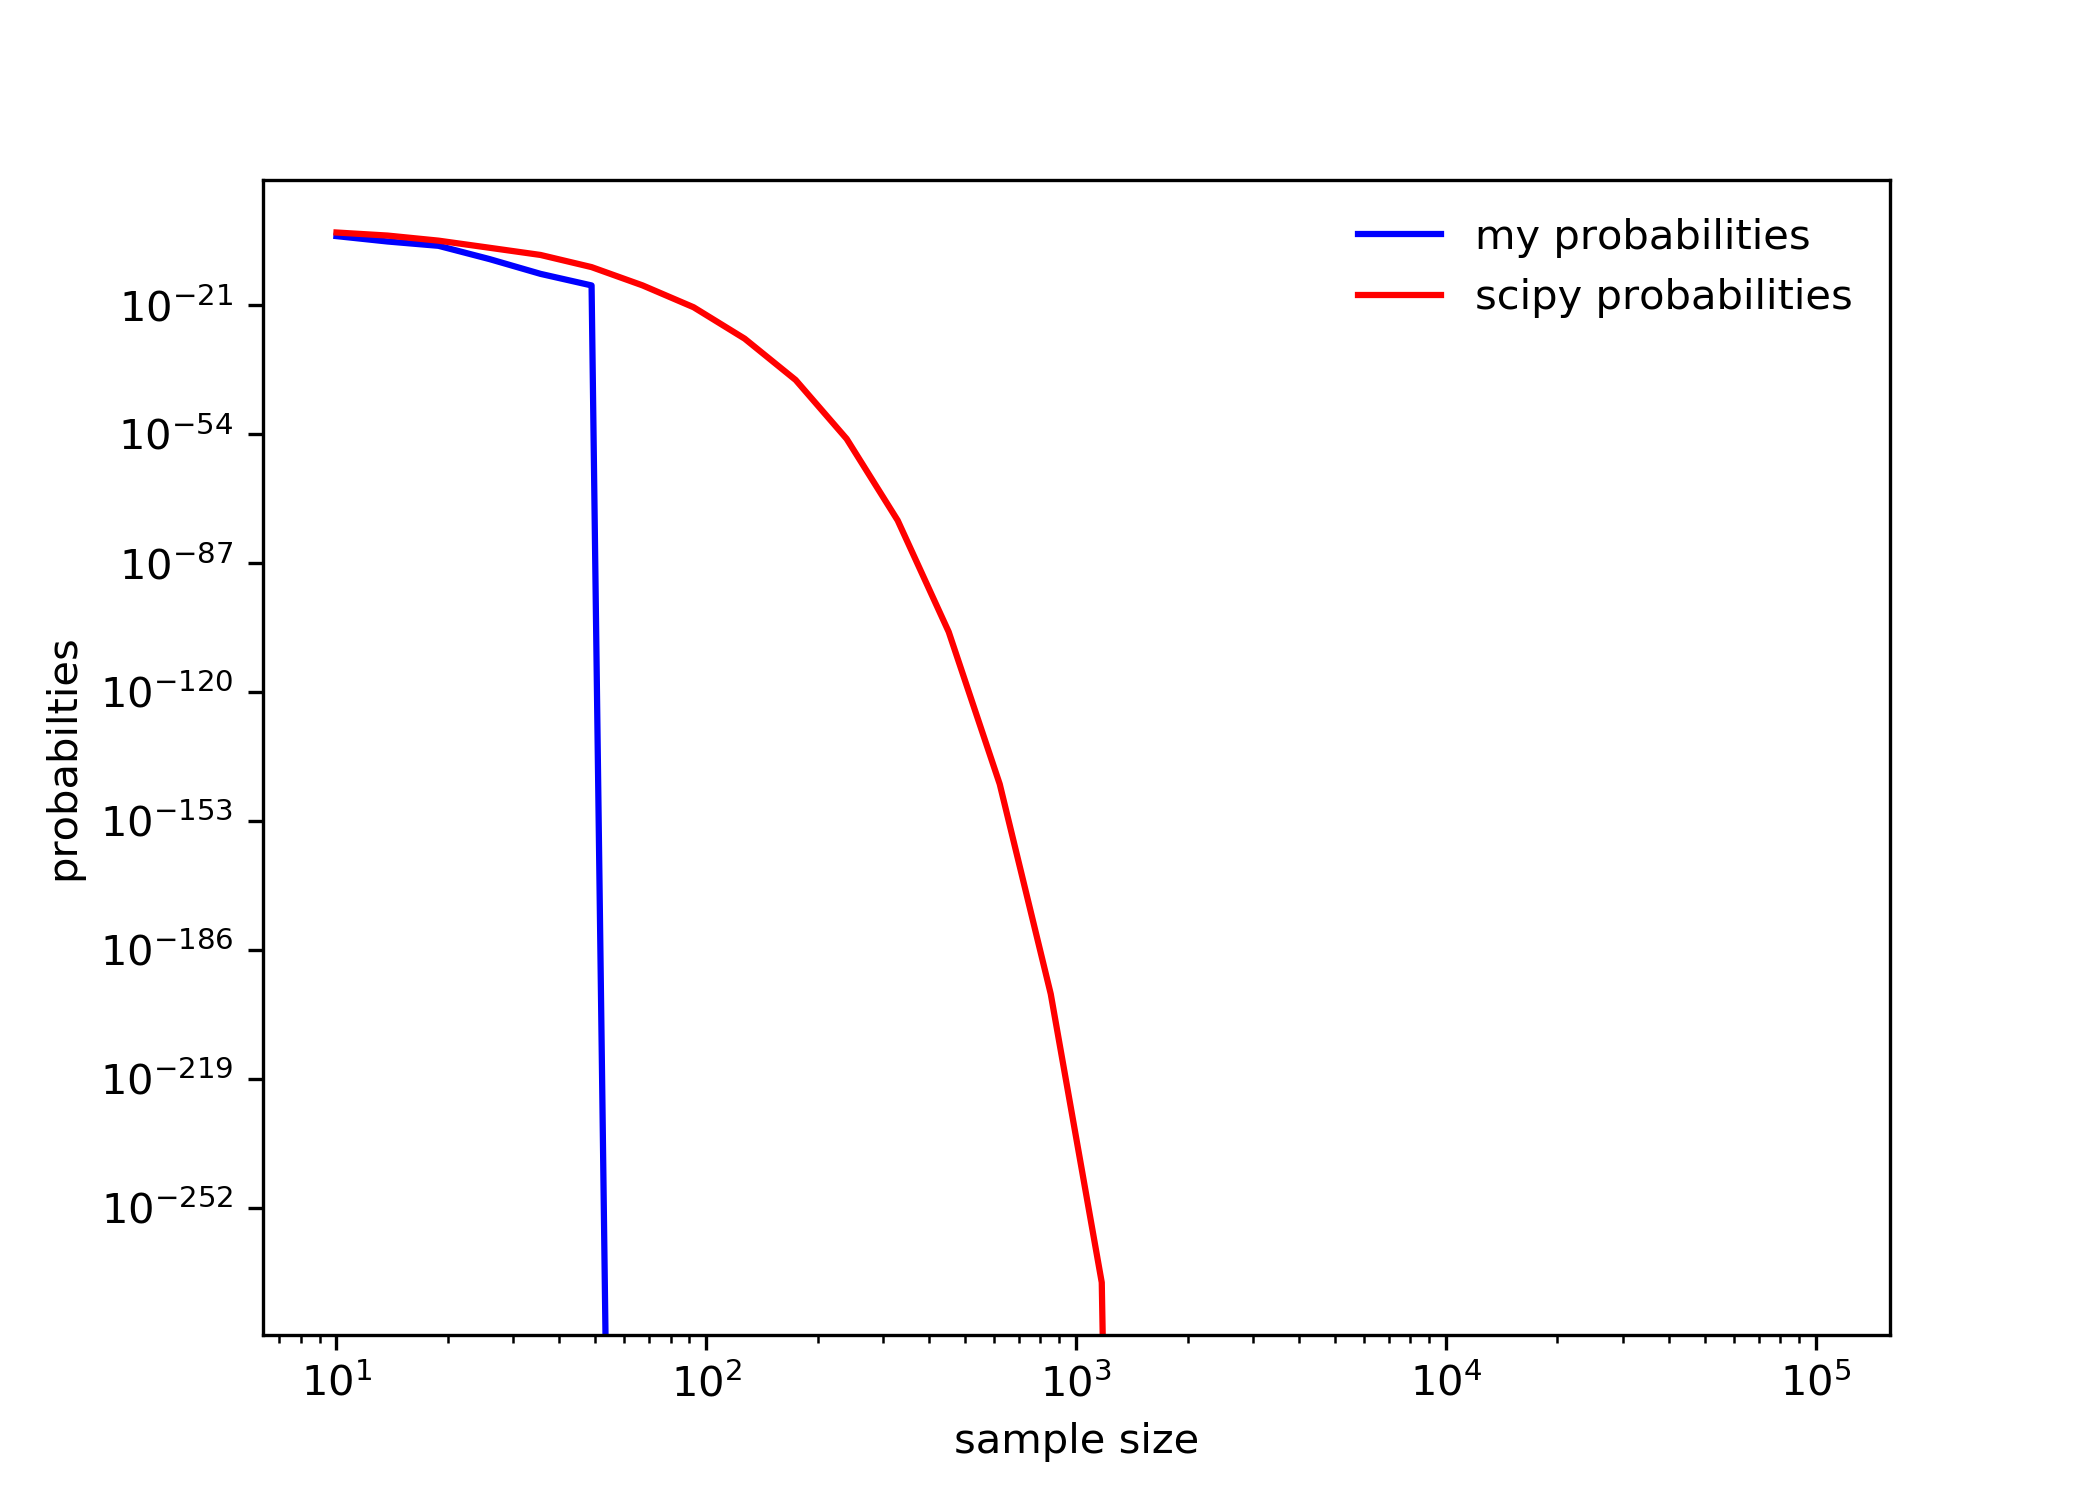
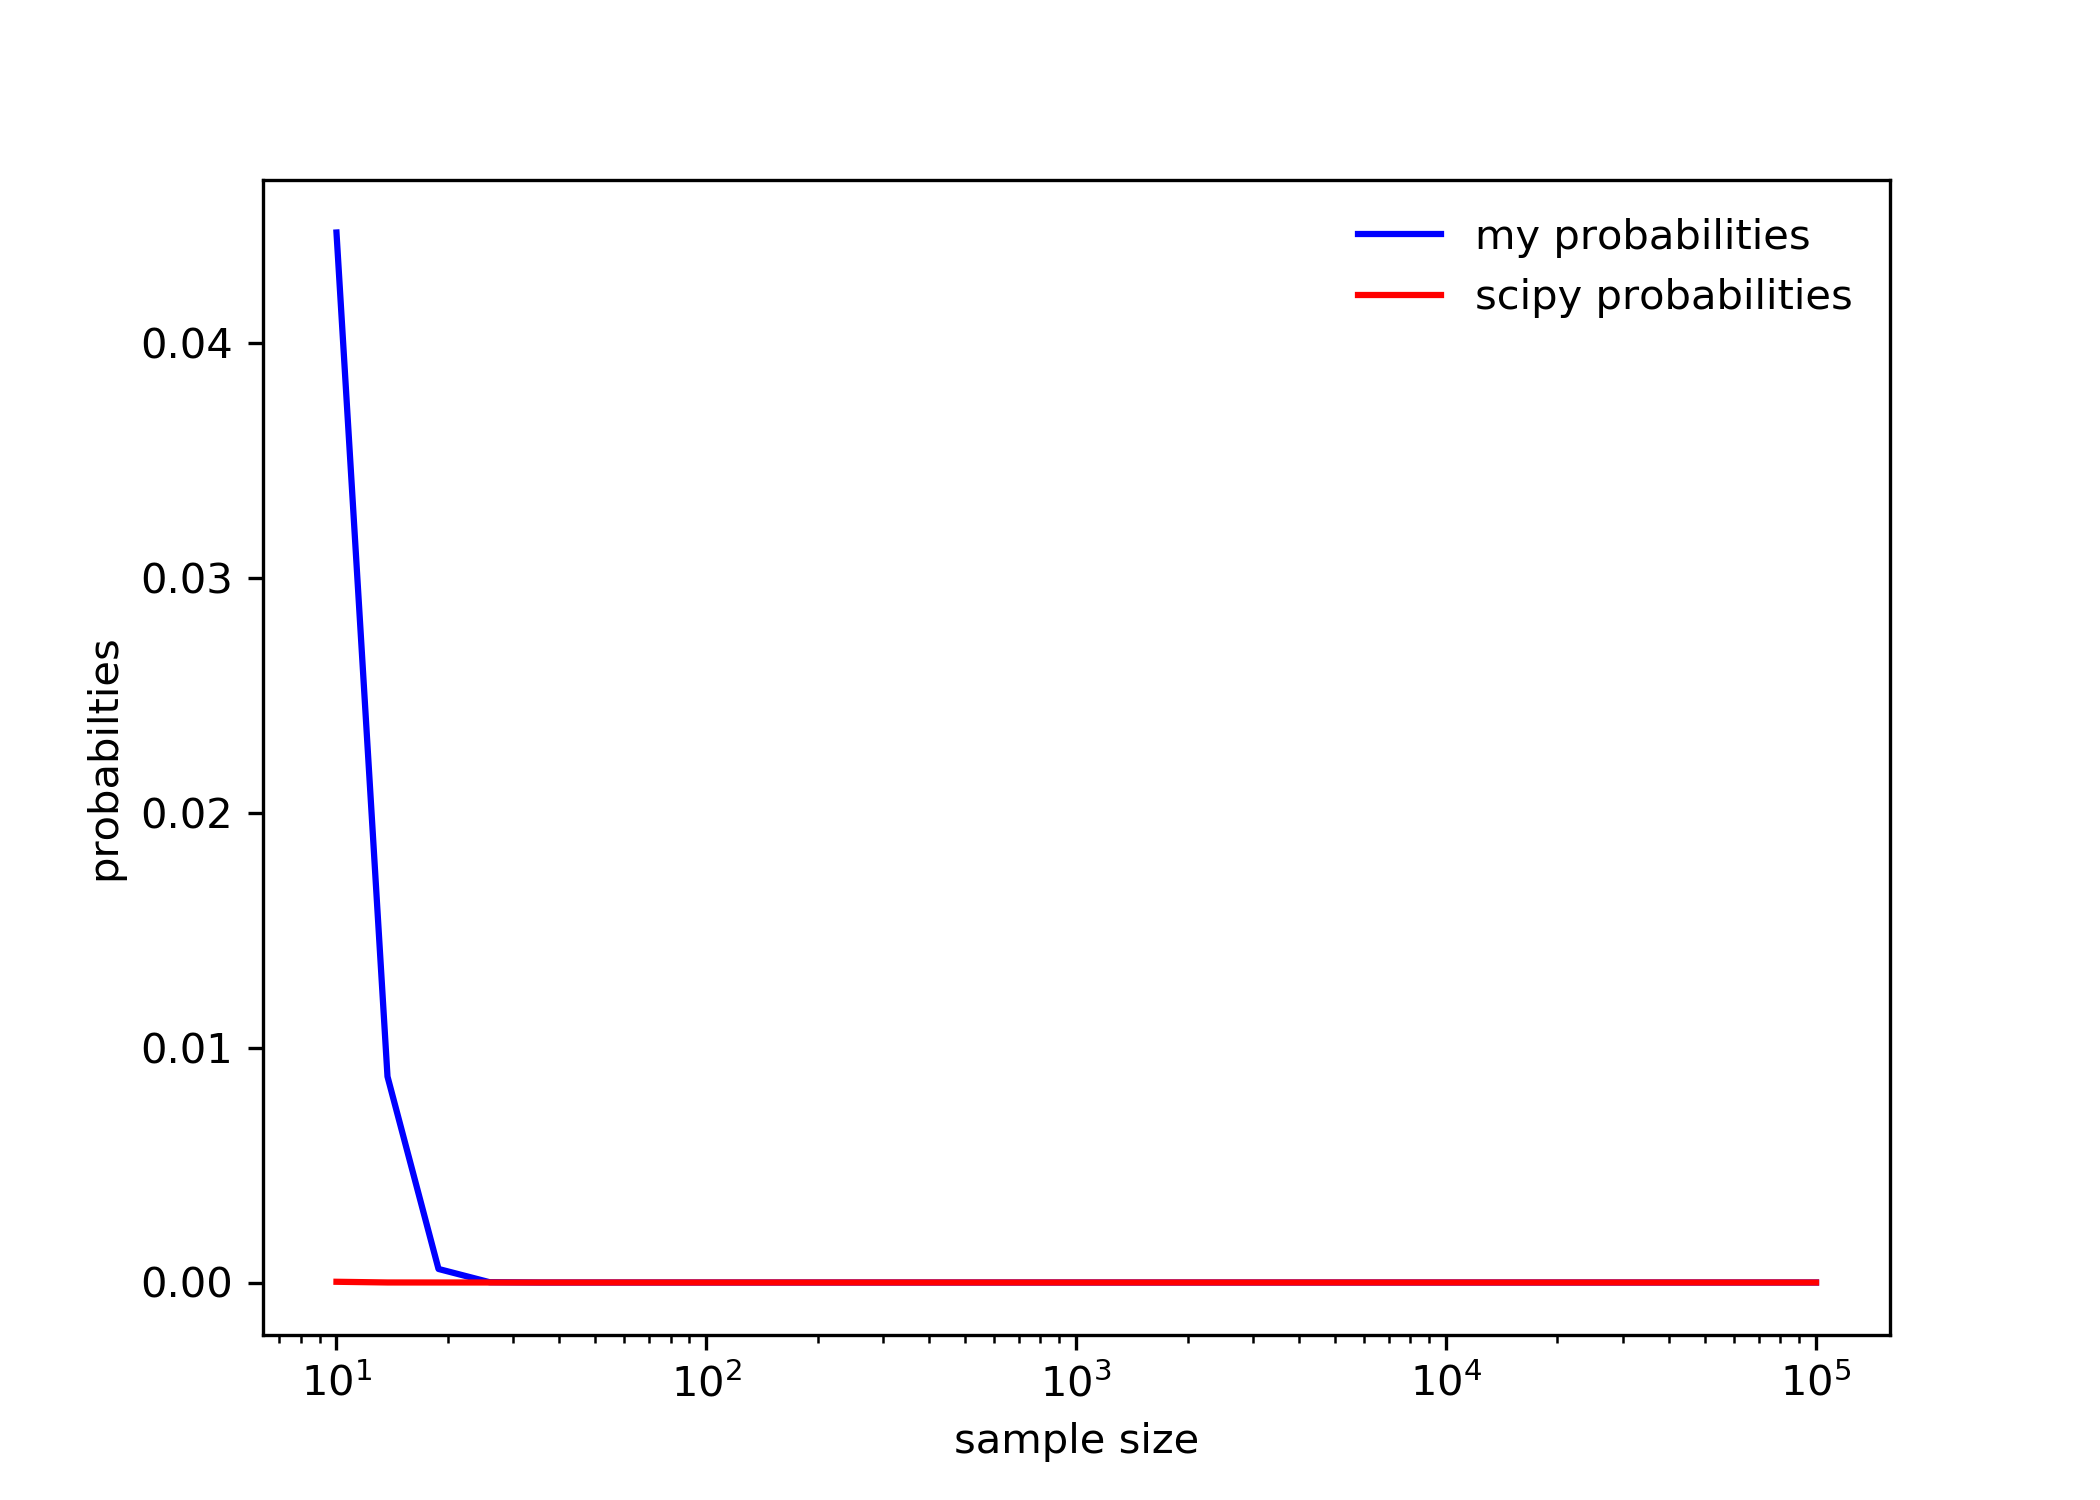
up to problem 2

diff --git a/p2.tex b/p2.tex
@@ -1,0 +1,45 @@
+\section{Problem 2}
+
+\lstinputlisting{p2.py}
+We set out to make initial density fields based off of the power spectrum,
+\begin{equation}
+  P(k) = k^n,
+\end{equation}
+where $n$ is $-1, -2, -3$. Essentially, we setup the indices for the Fast
+Fourier Transform (FFT) as described in the slides. We define the function
+for the power spectrum, use our rng to make random numbers, and finally
+perform the FFT on each field. Figures are plotted below.
+
+\begin{figure}[h!]
+    \centering
+    \includegraphics[width=0.9\linewidth]{./plots/gauss_field_-1.png}
+    \caption{Gaussian field for $n=-1$.}
+    \label{gf1}
+\end{figure}
+The initial field in \autoref{gf1} looks roughly what we expect.
+Admittedly, I am unsure exactly what is expected, but as the handout
+explains, dispersion is dependent on $n$. In \autoref{gf2} we can see
+the dispersion causes a bit more ``clumpiness'' (that is, high-density
+pockets). In \autoref{gf3}, we see an even higher contrast between
+the low-high density regions. (Sorry, my colorbar was not working! It's 
+viridis colormap, though.)
+\begin{figure}[h!]
+    \centering
+    \includegraphics[width=0.9\linewidth]{./plots/gauss_field_-2.png}
+    \caption{Gaussian field for $n=-2$.}
+    \label{gf2}
+\end{figure}
+However, in \autoref{gf3} it is clear something is wrong. The physical
+distances are not changing as a function of $n$. As $P_k$ changes from
+$n=-1$ to $n=-2$ for example, the maximum and minimum k values should increase
+from $n=-1$ to $n=-2$. The physical distances should be larger as well.
+Given time constraints, I gave up and left the plots as is. I assume 
+it has a $2$-fold issue: my rng and perhaps the amplitudes are not actually
+changing as expected.
+\begin{figure}[h!]
+    \centering
+    \includegraphics[width=0.9\linewidth]{./plots/gauss_field_-3.png}
+    \caption{Gaussian field for $n=-3$.}
+    \label{gf3}
+\end{figure}
+

diff --git a/handin2.py b/handin2.py
@@ -172,18 +172,25 @@ def ks_test(x,cdf):
 
         return P
 
+    # bin up values to make distance measurement easy
+    # distance is simply abs((counts/N) - cdf) for a given x
     N = len(x)
     num_bins = int(100*max(x)-min(x))
     counts,bins = np.histogram(x,bins=num_bins)
     width = bins[1]-bins[0]
     bins += width
     dist = np.zeros(len(counts))
-    c = sum(counts)
-    counts_array = np.zeros(len(counts))
-
+    x_counts = np.zeros(len(counts))\
+    
+    # want to know what i'm looking at
+    # if N == 100000:
+        # print('num_bins: {}\n counts: {}\n bins: {}\n width: {}\n bins: {}\n \
+                # dist: {}\n csum: {}\n'.format(num_bins,counts,bins,width,bins,\
+                # dist,csum))
+                
     for i in range(len(counts)):
-        dist[i] = abs(sum(counts[:i])/c-cdf(bins[i]))
-        counts_array[i] = sum(counts[:i])
+        x_counts[i] = sum(counts[:i])
+        dist[i] = abs((x_counts[i]/N) - cdf(bins[i]))
 
     D = max(abs(dist))
     z = D*(np.sqrt(N) + 0.12 + 0.11/np.sqrt(N))
@@ -212,19 +219,18 @@ def kuiper_test(x,cdf):
             P = 2 *((4*(z**2-1))*v + (16*z**2-1)*v**4 + (32*z**2-1)*v**9)
 
         return P
-
+    
     N = len(x)
     num_bins = int(100*max(x)-min(x))
     counts,bins = np.histogram(x,bins=num_bins)
     width = bins[1]-bins[0]
     bins += width
     dist = np.zeros(len(counts))
-    c = sum(counts)
-    counts_array = np.zeros(len(counts))
+    x_counts = np.zeros(len(counts))
 
     for i in range(len(counts)):
-        dist[i] = abs(sum(counts[:i])/c-cdf(bins[i]))
-        counts_array[i] = sum(counts[:i])
+        x_counts[i] = sum(counts[:i])
+        dist[i] = abs((x_counts[i]/N) - cdf(bins[i]))
 
     D = abs(max(dist)) + abs(min(dist))
     z = D*(np.sqrt(N) + 0.155 + 0.24/np.sqrt(N))

diff --git a/p1d.py b/p1d.py
@@ -4,7 +4,6 @@
 import sys
 
 import numpy as np
-from scipy import stats
 from astropy.stats import kuiper
 import matplotlib
 matplotlib.use("Agg")
@@ -21,6 +20,7 @@ def main():
     num_samples = np.logspace(1,5,num=50)
     sample_size = int(1e5)
     my_k = np.zeros(50)
+    my_p = np.zeros(50)
     pyth_k = np.zeros(50)
     pyth_p = np.zeros(50)
 
@@ -37,22 +37,31 @@ def main():
 
     for i,s in enumerate(num_samples):
         # slice of x at given s
-        x_s = x[:int(s)]
-        my_k[i] = nur.kuiper_test(x_s,cdf)
-        pyth_k[i],pyth_p[i] = kuiper(x_s,cdf)
+        x_s = xn[:int(s)]
+        x_k = x[:int(s)]
+        my_k[i],my_p[i] = nur.kuiper_test(x_s,cdf)
+        pyth_k[i],pyth_p[i] = kuiper(x_k)
 
     # plotting procedure
     plt.figure(1,figsize=(7,5))
     plt.plot(num_samples,my_k,c='b',ls='None',marker='.',markersize=1,
             label='my kuiper test')
-    plt.plot(num_samples,pyth_ks,c='r',ls='None',marker='s',markersize=1,
+    plt.plot(num_samples,pyth_k,c='r',ls='None',marker='s',markersize=1,
             label='astropy kuiper test')
-    plt.ylim(min(pyth_k),max(my_k))
     plt.xscale('log')
     plt.xlabel("number of points")
     plt.ylabel("kuiper statistic")
     plt.legend()
     plt.savefig('./plots/kuiper_stat.png',format='png',dpi=300)
+
+    plt.figure(2,figsize=(7,5))
+    plt.plot(num_samples,my_p,c='b',label='my probabilities')
+    plt.plot(num_samples,pyth_p,c='r',label='astropy probabilities')
+    plt.xscale('log')
+    plt.xlabel('sample size')
+    plt.ylabel('probabilties')
+    plt.legend(frameon=False,loc='best')
+    plt.savefig('./plots/k_prob.png',format='png',dpi=300)
 
 if __name__ == '__main__':
     sys.exit(main())

diff --git a/p1e.py b/p1e.py
@@ -12,6 +12,26 @@ import matplotlib.pyplot as plt
 
 import handin2 as nur
 
+def cdf(x,s):
+
+    """cdf of sample drawn and random sample from input txt.
+
+    args:
+        x: my sample
+        s: sample from input data
+
+    returns:
+        function cdf to find ks statistic and probabilities
+
+    """
+    
+    # find where s < x and the cdf is that over the length of s.
+    n = len(s)
+    d = s < x
+    y = len(d)
+
+    return d/n
+
 def main():
     seed = 4
     np.random.seed(4)
@@ -20,10 +40,13 @@ def main():
     data = np.loadtxt('randomnumbers.txt',unpack=True)
     # number of random nums, number of sets
     dsize = len(data[0,:])
-    dsets = len(data[:,0]) 
+    dsets = len(data[:,0])
+    # print(dsize,dsets)
     sample_size = int(np.log10(dsize))
-    num_samples = np.logspace(1,sample_size,num=10)
-    print(num_samples)
+    num_samples = np.logspace(1,sample_size,num=30)
+    # print(num_samples)
+    ks_stat = np.zeros(30)
+    prob = np.zeros(30)
 
     # random number params
     x = np.zeros(sample_size)
@@ -36,7 +59,13 @@ def main():
         x[i],seed = nur.rng(seed)
         xn[i],yn[i] = nur.normalize_random_distribution(x[i],y[i],u,sigma)
 
-    # finish later
+    # none of this will work, explain in report
+    for i in range(dsets):
+        for j,s in enumerate(num_samples):
+            x_s = xn[:int(s)]
+            d_s = data[:dsize,i]
+            # need a 2d ks test
+            # ks_stat[i],prob[i] = nur.ks_test(x_s,d_s)
 
 if __name__  == '__main__':
     sys.exit(main())

diff --git a/p1c.py b/p1c.py
@@ -19,7 +19,6 @@ def main():
     nums = 30
     cdf = nur.gaussian_cdf
     num_samples = np.logspace(1,5,num=nums)
-    print(num_samples)
     sample_size = int(1e5)
     my_ks = np.zeros(nums)
     my_prob = np.zeros(nums)
@@ -39,10 +38,10 @@ def main():
 
     for i,s in enumerate(num_samples):
         # slice of x at given s
-        x_s = x[:int(s)]
+        x_s = xn[:int(s)]
         my_ks[i],my_prob[i] = nur.ks_test(x_s,cdf)
         pyth_ks[i],pyth_prob[i] = stats.kstest(x_s,'norm')
-        # my probs are too small
+
         # print('my junk: \n',my_ks[i],my_prob[i])
         # print('stats junk: \n',pyth_ks[i],pyth_prob[i])
 
@@ -52,7 +51,6 @@ def main():
             label='my ks test')
     plt.plot(num_samples,pyth_ks,c='r',ls='None',marker='s',markersize=1,
             label='scipy ks test')
-    plt.ylim(min(pyth_ks)-0.01,max(my_ks)+0.01)
     plt.xscale('log')
     plt.xlabel('sample size')
     plt.ylabel('ks statistic')
@@ -60,8 +58,9 @@ def main():
     plt.savefig('./plots/ks_stat.png',format='png',dpi=300)
 
     plt.figure(2,figsize=(7,5))
-    plt.loglog(num_samples,my_prob,c='b',label='my probabilities')
-    plt.loglog(num_samples,pyth_prob,c='r',label='scipy probabilities')
+    plt.plot(num_samples,my_prob,c='b',label='my probabilities')
+    plt.plot(num_samples,pyth_prob,c='r',label='scipy probabilities')
+    plt.xscale('log')
     plt.xlabel('sample size')
     plt.ylabel('probabilties')
     plt.legend(frameon=False,loc='best')

diff --git a/p2.py b/p2.py
@@ -27,17 +27,18 @@ def Pk(n,kx,ky):
 
     return P_k
 
-def gaussian_random_field(Pk):
-
-    # power spectrum
-    # make my own random numbers here
-    noise = np.fft.fft2(np.random.normal(size = (size,size)))
-    amplitude = np.zeros((size,size))
-    for i, kx in enumerate(fftIndgen(size)):
-        for j, ky in enumerate(fftIndgen(size)):            
-            amplitude[i,j] = Pk2(Pk,kx,ky)
-
-    return np.fft.ifft2(noise * amplitude)
+# sample random field, keeping for debugging purposes later
+# def gaussian_random_field(Pk):
+# 
+#     # power spectrum
+#     # make my own random numbers here
+#     noise = np.fft.fft2(np.random.normal(size = (size,size)))
+#     amplitude = np.zeros((size,size))
+#     for i, kx in enumerate(fftIndgen(size)):
+#         for j, ky in enumerate(fftIndgen(size)):            
+#             amplitude[i,j] = Pk2(Pk,kx,ky)
+# 
+#     return np.fft.ifft2(noise * amplitude)
 
 def main():
     seed = 1239078
@@ -81,6 +82,8 @@ def main():
 
         plt.figure(figsize=(7,5))
         im = plt.matshow(np.absolute(gauss_field),interpolation='none')
+        # ax = plt.gca()
+        # plt.colorbar(im,ca)
         plt.xlabel('x [Mpc]',fontsize=20)
         plt.ylabel('y [Mpc]',fontsize=20)
         plt.title('gauss field $n={}$'.format(k),fontsize=25)

diff --git a/p1d.tex b/p1d.tex
@@ -1,0 +1,22 @@
+\subsection{1d}
+
+\lstinputlisting{p1d.py}
+Next is the Kuiper test. As with the KS test, I am unsure where I went wrong
+because I followed the slides but to no avail. With time constraints, 
+I was not able to figure it out. Figures are plotted below. One obvious 
+explanation is that my distribution does not fit a Gaussian.
+I am unsure of potential (and likely) bugs in my code.
+\begin{figure}[h!]
+    \centering
+    \includegraphics[width=0.9\linewidth]{./plots/kuiper_stat.png}
+    \caption{Kuiper distance statistic.}
+    \label{kuip_s}
+\end{figure}
+
+\begin{figure}[h!]
+    \centering
+    \includegraphics[width=0.9\linewidth]{./plots/k_prob.png}
+    \caption{Kuiper probabilities.}
+    \label{kuip_p}
+\end{figure}
+

diff --git a/p1c.tex b/p1c.tex
@@ -3,7 +3,9 @@
 \lstinputlisting{p1c.py}
 Next is the KS test. For this, I am unsure where I went wrong because
 I followed the slides but to no avail. With time constraints, I was not
-able to figure it out. Figures are plotted below.
+able to figure it out. Figures are plotted below. One obvious explanation
+is that my distribution does not fit a Gaussian. I am unsure of potential
+(and likely) bugs in my code.
 \begin{figure}[h!]
     \centering
     \includegraphics[width=0.9\linewidth]{./plots/ks_stat.png}

diff --git a/p1e.tex b/p1e.tex
@@ -1,0 +1,8 @@
+\subsection{1e}
+
+\lstinputlisting{p1e.py}
+Next, we are meant to verify a statistic of our choice (in this case the 
+KS statistic) with a set of random numbers. I recognized too late that I need
+to implement a $2$D KS sampler. As can be seen, I have a potential CDF to use,
+but the statistic cannot be used at this time.
+
